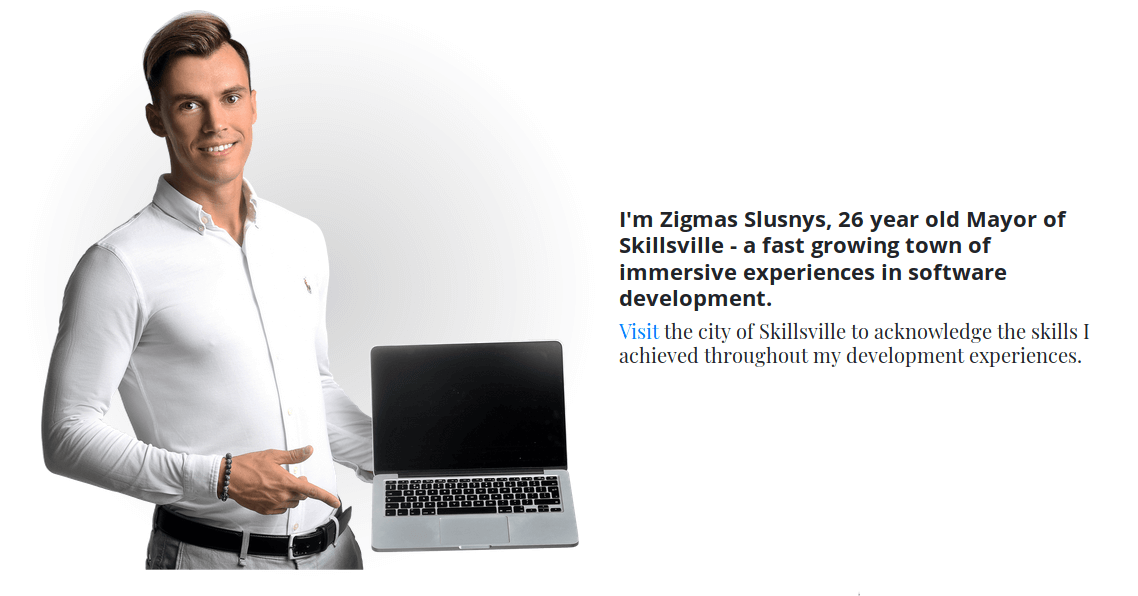
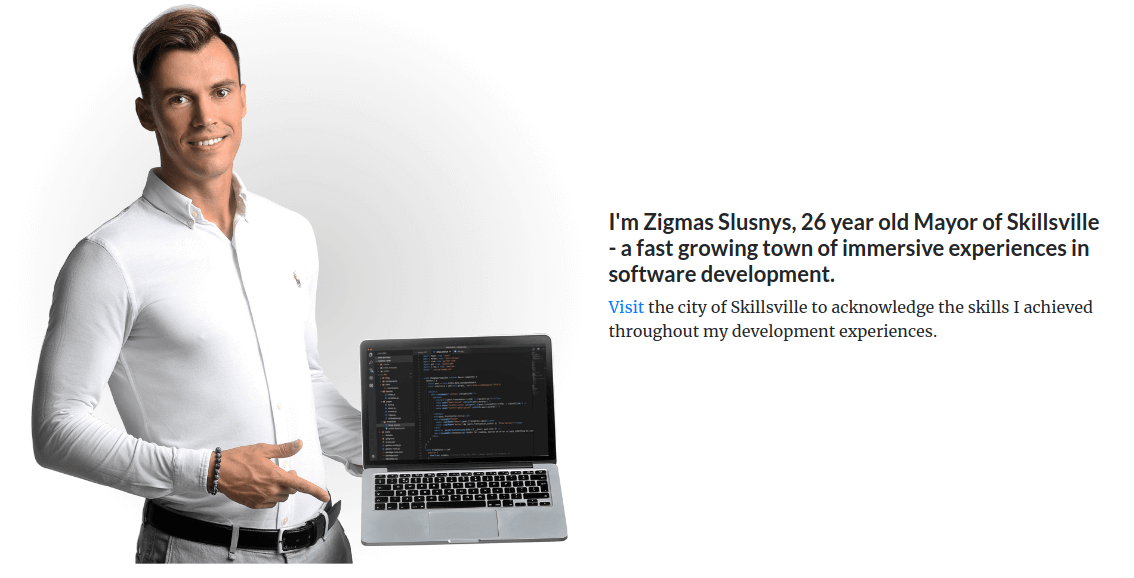
Changes profile picture for main site

Changed region(s): [[0.0, 0.0, 0.5247, 0.9965], [0.5247, 0.3426, 0.9877, 0.6228], [0.216, 0.4983, 0.2469, 0.654]]

diff --git a/docs/index.html b/docs/index.html
@@ -47,7 +47,7 @@
     <div class="d-flex flex-row flex-wrap flex-sm-nowrap header-box">
       <div class="mr-auto order-sm-0 order-1">
         <a href="#cityViewport">
-          <img id="profile-image" class="profile-image-animation headshot-radiant" src="./headshot-900_compressed.png" alt="">
+          <img id="profile-image" class="profile-image-animation headshot-radiant" src="./zigmas-dev-900_compressed.png" alt="">
         </a>
       </div>
       <div class="align-self-center order-sm-1 order-0 header-content">
